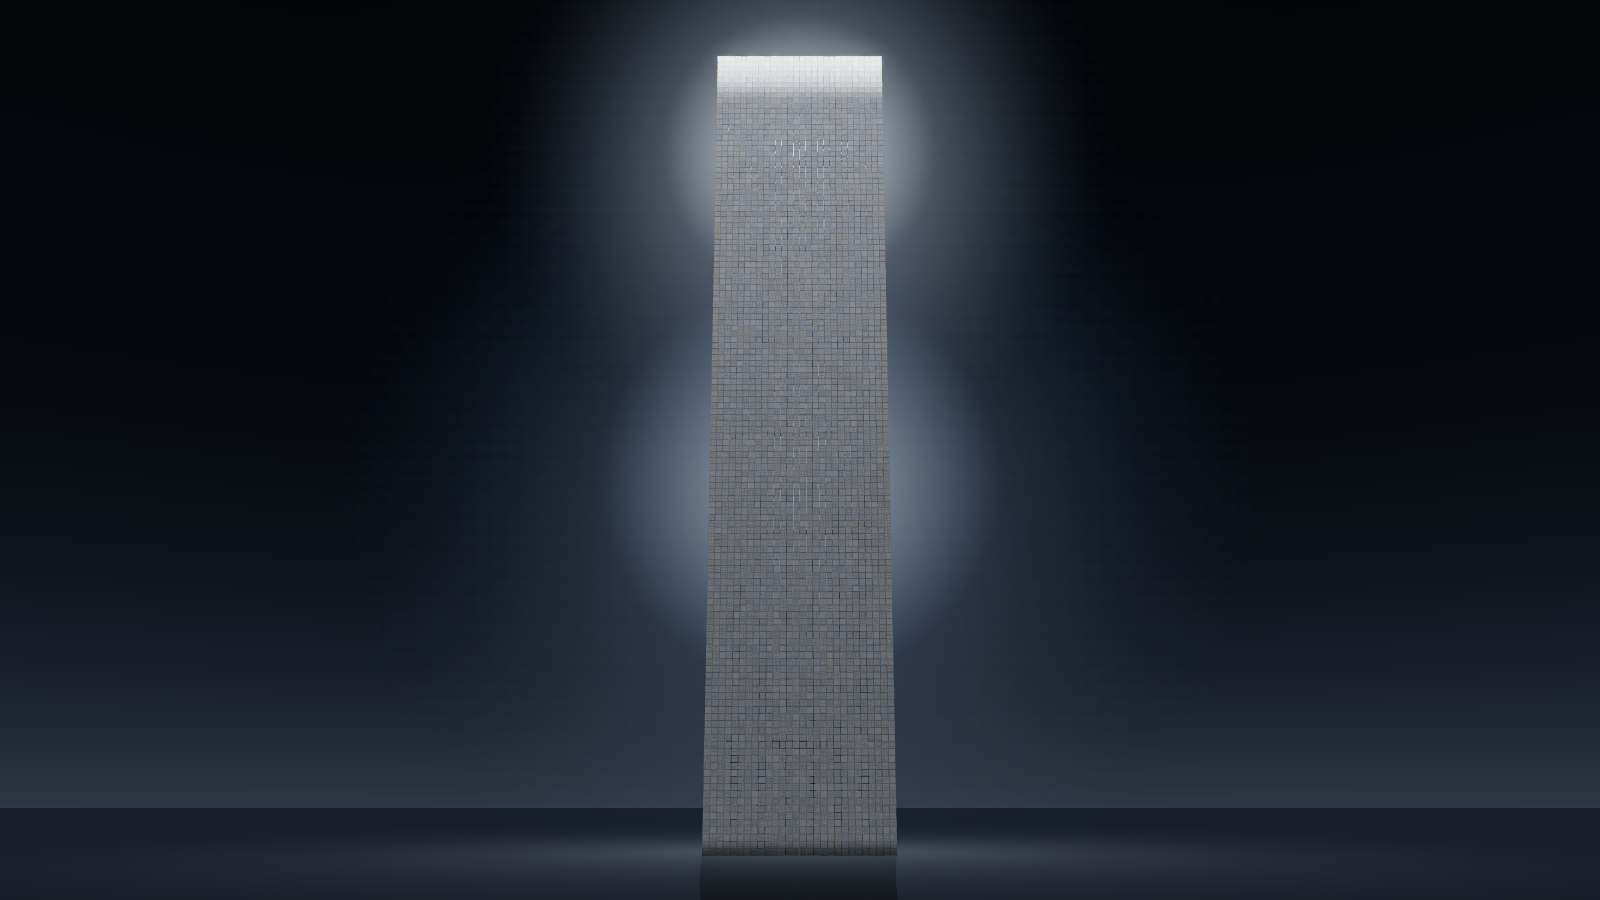
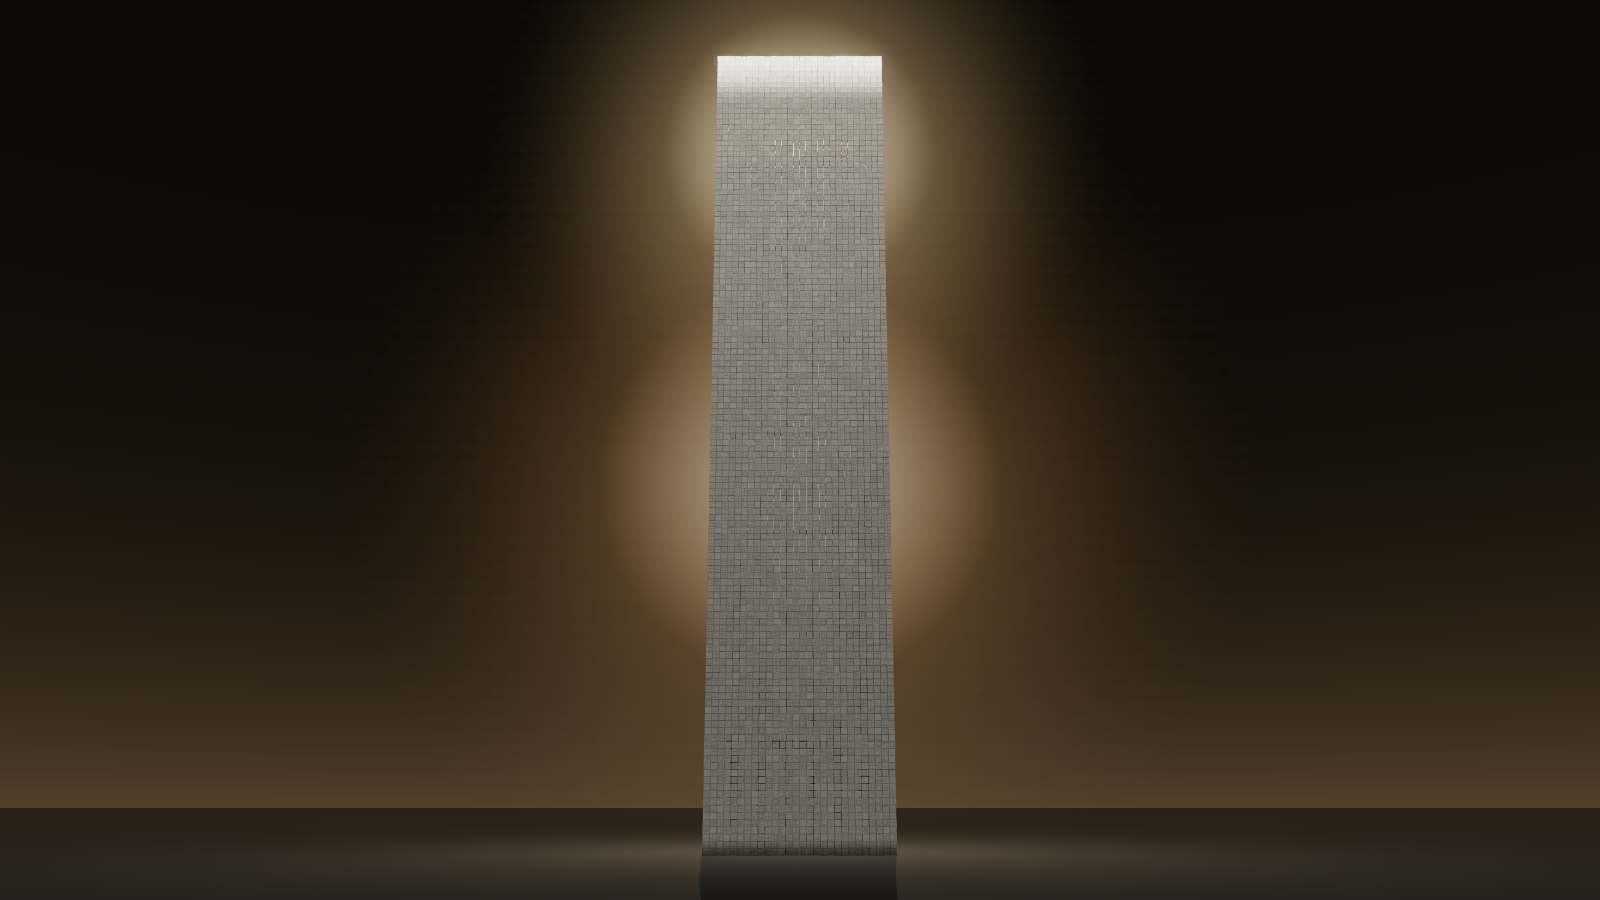
the journey, refined: dwell and travel, the breach, and the warmth
Jacob: the journey sucks, refine. And mid-refinement, his reference
list, with blueyard.com named as the one he is fond of.

The score is re-authored as dwell-travel-dwell: the camera holds
nearly still wherever a panel is read and moves decisively between
stops. The approach orbits the monument so it reads as a mass. The
climb hugs the face so the cells sweep past. And the journey finally
goes through something: the decay opens two seeded wounds in the
travelled face, the camera enters the upper one at the rule stop's
end, Brawler is read from inside the wall cavity among the frame's
columns and beams by a traveller's light that burns only there, and
the lower wound exits onto the stripped face for technology, down
through the scree to the approved final look up.

From blueyard, the warmth, taken as a quality and not a picture: the
holy phase is now warm gold across sky, stone, crown, halos, sea and
air, and the descent drains it to the existing cold steel. The decay
arc gains its temperature axis: gold to steel, grace to frame.

References captured to captures/refs/ and recorded with TAKE/REJECT in
the gate file. ferrumpipe.com was dead at capture time. Harness 7/7.

diff --git a/src/render/JourneyRenderer.ts b/src/render/JourneyRenderer.ts
@@ -99,11 +99,12 @@ const CLAD_FRAG = /* glsl */ `
     float diff = clamp(dot(n, L), 0.0, 1.0);
     // moonlit stone, not a lightbox: dark grey-blue mass whose holiness
     // is contrast, carried by the burning crown and the lit edges
-    vec3 base = mix(vec3(0.34, 0.375, 0.43), vec3(0.40, 0.385, 0.36), vSeed * 0.5);
-    base = mix(base, vec3(0.24, 0.3, 0.4), uSeverity * 0.45);
+    vec3 base = mix(vec3(0.42, 0.39, 0.345), vec3(0.46, 0.425, 0.365), vSeed * 0.5);
+    base = mix(base, vec3(0.24, 0.3, 0.4), uSeverity * 0.75);
     vec3 col = base * (0.42 + 0.55 * diff) * mix(0.55, 1.45, vHeight * vHeight);
     // the crown burns near-white: the monument's own lamp
-    col += vec3(0.92, 0.95, 1.0) * smoothstep(0.93, 1.0, vHeight) * 1.5 * (1.0 - uSeverity * 0.5);
+    vec3 crownCol = mix(vec3(1.0, 0.94, 0.8), vec3(0.85, 0.92, 1.0), uSeverity);
+    col += crownCol * smoothstep(0.93, 1.0, vHeight) * 1.5 * (1.0 - uSeverity * 0.5);
     // mortar: the joints hold shadow
     vec2 eUv = min(vUv, 1.0 - vUv);
     float edge = min(eUv.x, eUv.y);
@@ -215,9 +216,10 @@ const SEA_FRAG = /* glsl */ `
     // the monument's standing light on the water, dying as it strips
     float r = length(vWorld.xz);
     float pool = exp(-r * 0.016);
-    col += vec3(0.14, 0.155, 0.18) * pool * (1.0 - uDecay * 0.75) * (1.0 - uSeverity * 0.4);
+    vec3 poolCol = mix(vec3(0.185, 0.155, 0.115), vec3(0.10, 0.12, 0.15), uSeverity);
+    col += poolCol * pool * (1.0 - uDecay * 0.75) * (1.0 - uSeverity * 0.4);
     float haze = 1.0 - exp(-dist * dist * 0.000004);
-    col = mix(col, vec3(0.013, 0.018, 0.026), haze);
+    col = mix(col, mix(vec3(0.022, 0.017, 0.012), vec3(0.010, 0.014, 0.020), uSeverity), haze);
     outColor = vec4(col, 0.72);
   }
 `;
@@ -239,8 +241,8 @@ const SKY_FRAG = /* glsl */ `
   void main() {
     vec3 d = normalize(vDir);
     float band = exp(-abs(d.y + 0.03) * 8.0);
-    vec3 base = mix(vec3(0.004, 0.006, 0.009), vec3(0.002, 0.003, 0.005), uSeverity);
-    vec3 glow = mix(vec3(0.042, 0.052, 0.07), vec3(0.014, 0.02, 0.028), uSeverity);
+    vec3 base = mix(vec3(0.012, 0.009, 0.006), vec3(0.002, 0.003, 0.005), uSeverity);
+    vec3 glow = mix(vec3(0.085, 0.06, 0.035), vec3(0.014, 0.02, 0.028), uSeverity);
     vec3 col = base + glow * band;
     outColor = vec4(col, 1.0);
   }
@@ -265,6 +267,7 @@ export class JourneyRenderer {
   private readonly markBorn = new Float32Array(12);
   private readonly scree: THREE.InstancedMesh;
   private readonly screeTotal: number;
+  private innerLight!: THREE.PointLight;
   private readonly halo: THREE.Sprite;
   private readonly crownHalo: THREE.Sprite;
   private readonly maxDpr: number;
@@ -437,11 +440,16 @@ export class JourneyRenderer {
     this.scene.add(keyLight);
     this.scene.add(new THREE.AmbientLight(0x1a2129, 1.1));
 
+    // the traveller's light: alive only inside the wall, so the cavity
+    // reads as darkness with structure rather than a void
+    this.innerLight = new THREE.PointLight(0xbfd4e8, 0, 55, 1.6);
+    this.scene.add(this.innerLight);
+
     // --- atmosphere ---
-    this.halo = makeHalo('#7e93ad', 240);
+    this.halo = makeHalo('#c9a071', 240);
     this.halo.position.set(0, TOWER_TOP * 0.45, 0);
     this.scene.add(this.halo);
-    this.crownHalo = makeHalo('#c3d2e4', 175);
+    this.crownHalo = makeHalo('#ecd0a0', 175);
     this.crownHalo.position.set(0, TOWER_TOP * 0.92, 0);
     this.scene.add(this.crownHalo);
 
@@ -488,7 +496,7 @@ export class JourneyRenderer {
     const decay = 0.9 * smooth01(progress, 0.16, 0.98);
 
     const fogDensity = 0.0022 + 0.0028 * smooth01(progress, 0.3, 0.7);
-    const fogColor = lerpColor('#060a0f', '#020407', sev);
+    const fogColor = lerpColor('#0c0906', '#020407', sev);
 
     // the lamp follows attention; it wakes and settles smoothly
     let hoverTargetAmt = 0;
@@ -526,6 +534,11 @@ export class JourneyRenderer {
     // holiness dims as the monument strips
     this.halo.material.opacity = 0.45 * (1 - decay * 0.85);
     this.crownHalo.material.opacity = 0.5 * (1 - decay);
+
+    // the traveller's light burns only inside the wall
+    const inside = smooth01(progress, 0.55, 0.6) * (1 - smooth01(progress, 0.71, 0.76));
+    this.innerLight.intensity = 90 * inside;
+    this.innerLight.position.copy(this.camera.position);
 
     // the fallen accumulate
     this.scree.count = Math.floor(this.screeTotal * Math.min(1, decay * 1.15));

diff --git a/src/render/CameraPath.ts b/src/render/CameraPath.ts
@@ -23,16 +23,46 @@ interface PathKey {
  * breach onto the maintenance side, and the service run along the
  * sockets to the end.
  */
+/**
+ * The score: dwell where a panel is read, travel between. The approach
+ * orbits so the mass reads in three dimensions; the climb hugs the
+ * face so the cells sweep past; the breach enters the upper wound,
+ * Brawler is read from inside the wall among the frame's beams, the
+ * lower wound exits onto the stripped face, and the journey ends at
+ * the foot, looking up at the true form.
+ */
 const KEYS: PathKey[] = [
+  // ENTER: the approved opening frame, held
   { p: 0.0, pos: [0, 14, 300], look: [0, 96, 0], fov: 40, sev: 0.0 },
-  { p: 0.1, pos: [16, 16, 225], look: [0, 92, 0], fov: 41, sev: 0.0 },
-  { p: 0.22, pos: [30, 26, 90], look: [0, 88, 0], fov: 44, sev: 0.06 },
-  { p: 0.34, pos: [34, 48, 56], look: [6, 92, 0], fov: 46, sev: 0.18 },
-  { p: 0.46, pos: [28, 68, 36], look: [0, 96, -6], fov: 48, sev: 0.4 },
-  { p: 0.58, pos: [25, 88, 30], look: [-4, 104, -10], fov: 48, sev: 0.6 },
-  { p: 0.7, pos: [22, 106, 34], look: [-2, 120, -8], fov: 46, sev: 0.78 },
-  { p: 0.84, pos: [14, 58, 52], look: [0, 90, 0], fov: 44, sev: 0.9 },
-  { p: 0.92, pos: [2, 12, 92], look: [0, 86, 0], fov: 44, sev: 0.9 },
+  { p: 0.07, pos: [3, 14, 282], look: [0, 95, 0], fov: 40, sev: 0.0 },
+  // travel: the orbit in
+  { p: 0.15, pos: [42, 20, 148], look: [0, 80, 0], fov: 42, sev: 0.03 },
+  // SYSTEM: dwell low at the face
+  { p: 0.21, pos: [29, 29, 42], look: [4, 58, 2], fov: 46, sev: 0.06 },
+  { p: 0.27, pos: [27, 32, 38], look: [2, 64, 0], fov: 46, sev: 0.08 },
+  // DESK42: dwell mid-face
+  { p: 0.32, pos: [17, 50, 32], look: [0, 84, 4], fov: 47, sev: 0.14 },
+  { p: 0.39, pos: [15, 55, 30], look: [0, 90, 5], fov: 47, sev: 0.18 },
+  // travel: the climb, cells sweeping past
+  { p: 0.44, pos: [11, 82, 27], look: [0, 116, 8], fov: 50, sev: 0.32 },
+  // RULE: dwell close on the law face, decay working overhead
+  { p: 0.48, pos: [9, 106, 26], look: [2, 134, 10], fov: 50, sev: 0.5 },
+  { p: 0.53, pos: [8, 116, 25], look: [4, 138, 12], fov: 50, sev: 0.58 },
+  // travel: through the upper wound
+  { p: 0.575, pos: [6, 138, 19], look: [3, 132, 2], fov: 52, sev: 0.68 },
+  // BRAWLER: dwell inside the wall, among the beams
+  { p: 0.61, pos: [3, 122, 9], look: [-3, 94, 3], fov: 52, sev: 0.74 },
+  { p: 0.66, pos: [1, 112, 8], look: [-4, 84, 5], fov: 52, sev: 0.78 },
+  // travel: descend the cavity toward the lower wound
+  { p: 0.71, pos: [-3, 84, 9], look: [-4, 64, 14], fov: 50, sev: 0.82 },
+  // TECHNOLOGY: emerged through the exit wound, the stripped face
+  { p: 0.75, pos: [-8, 58, 40], look: [0, 76, 0], fov: 47, sev: 0.88 },
+  { p: 0.8, pos: [-9, 52, 46], look: [0, 72, 0], fov: 47, sev: 0.9 },
+  // STUDIO: dwell at the foot among the scree
+  { p: 0.85, pos: [-4, 16, 64], look: [0, 62, 0], fov: 46, sev: 0.88 },
+  { p: 0.9, pos: [-2, 12, 70], look: [0, 66, 0], fov: 46, sev: 0.87 },
+  // CONTACT: the true form, held
+  { p: 0.96, pos: [0, 7.5, 78], look: [0, 96, 0], fov: 46, sev: 0.85 },
   { p: 1.0, pos: [0, 7, 78], look: [0, 98, 0], fov: 46, sev: 0.85 }
 ];
 

diff --git a/src/world/LatticeWorld.ts b/src/world/LatticeWorld.ts
@@ -94,7 +94,13 @@ export class LatticeWorld {
           // blight, not dissolve
           const heightT = level / LEVELS; // 0 base, 1 crown
           const cluster = 0.5 + 0.5 * Math.sin(x * 0.21 + z * 0.17 + level * 0.11 + s * 9.0);
-          const th = 0.2 + 0.78 * (1 - heightT) + 0.28 * (cluster - 0.5) + (s - 0.5) * 0.12;
+          let th = 0.2 + 0.78 * (1 - heightT) + 0.28 * (cluster - 0.5) + (s - 0.5) * 0.12;
+          // the wounds: two seeded breaches on the travelled face, opened
+          // early by the decay. The journey enters through one and leaves
+          // through the other.
+          const dEntry = Math.hypot(x - 5, y - 140, z - 20);
+          const dExit = Math.hypot(x + 5, y - 65, z - 20);
+          if (dEntry < 5.5 || dExit < 5.5) th *= 0.42;
           thresholds.push(Math.min(0.985, Math.max(0.06, th)));
 
           // the law runs on the face the camera passes (front, mid-heights)
